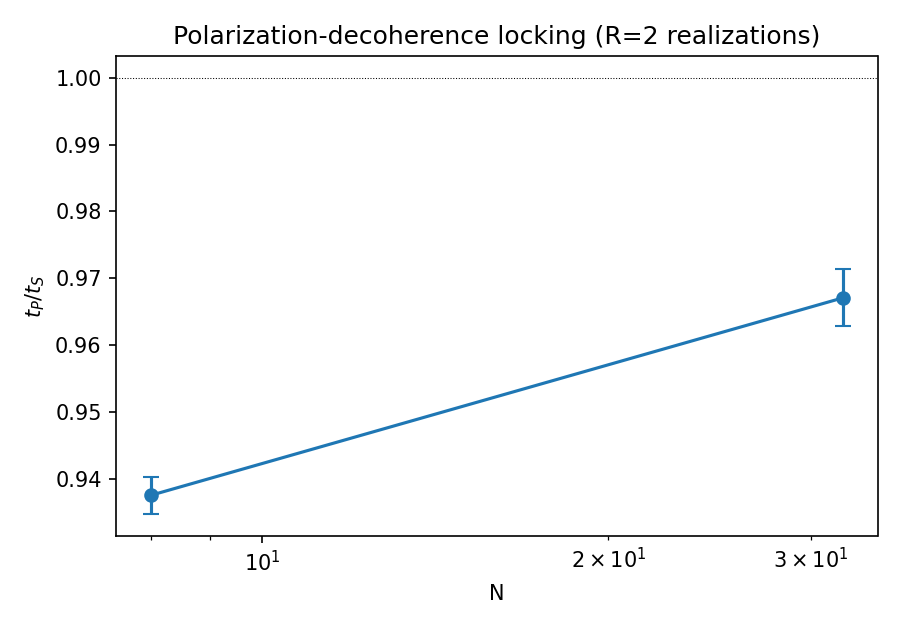
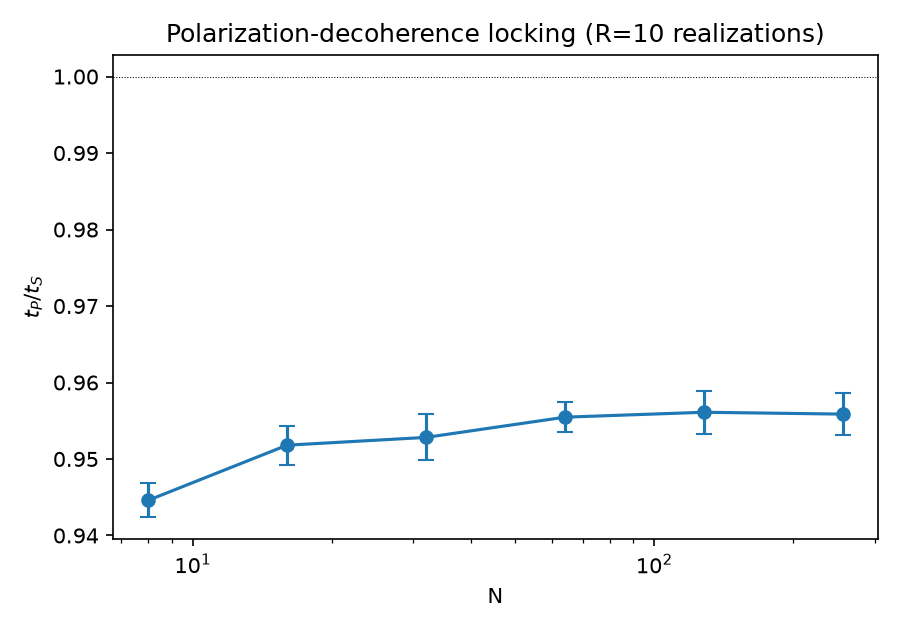
Error-bar production run: densify collapse master curve 50->200
- errorbars.py Section 2: master curve np.linspace(0.05,4.0,50)->200
  (statistical definitions unchanged: R disorder realizations,
  mean+/-std over realizations, equal-occupancy quantile bins).
- Regenerate fig5b_ratio_errorbars.png (pooled t_P/t_S = 0.953+/-0.005).
- Add rerun_sec23.py: faithful Section 2+3 rerun with densified master
  curve, skipping the expensive Section 1. Resolves the hysteresis
  plateau test -> sampling/estimation floor, not a physical deviation.

diff --git a/src/rerun_sec23.py b/src/rerun_sec23.py
@@ -1,0 +1,58 @@
+"""Rerun of errorbars.py Sections 2 (collapse) + 3 (hysteresis floor test)
+with the DENSIFIED master curve (linspace 0.05..4.0, 200 points).
+
+Statistical definitions are copied verbatim from errorbars.py; only the
+master-curve sampling density (50 -> 200) changes. Section 1 (t_P/t_S,
+the expensive part) is intentionally skipped -- it is unaffected.
+"""
+import numpy as np
+from numpy import interp
+import exact, variant_b as vb
+
+R = 10
+GBAR = 0.2
+
+# ---------- 2. collapse residuals with bootstrap (master curve @ 200) ----
+print("\n=== P(D) collapse residuals (master curve = 200 pts) ===")
+Dp, Pp = [], []
+for r in range(R):
+    g = np.random.default_rng(2000+r).uniform(0.05, 0.6, size=64)  # wide g mix
+    for t in np.linspace(0.05, 4.0, 200):
+        d = exact.record_distinguishability(g, t)
+        if d < 60:
+            Dp.append(d)
+            Pp.append(exact.sample_polarization(g, t, n_traj=20_000,
+                      rng=np.random.default_rng(3000+r))[0])
+Dp, Pp = np.array(Dp), np.array(Pp)
+o = np.argsort(Dp)
+nb = max(8, min(40, len(Dp) // 8))          # quantile bins: equal occupancy
+edges = np.quantile(Dp, np.linspace(0, 1, nb + 1))
+idx = np.clip(np.digitize(Dp, edges[1:-1]), 0, nb - 1)
+med_D = np.array([Dp[idx == i].mean() for i in range(nb)])
+med_P = np.array([np.median(Pp[idx == i]) for i in range(nb)])
+srt = np.argsort(med_D); med_D, med_P = med_D[srt], med_P[srt]
+resid = Pp - interp(Dp, med_D, med_P)
+boot = [np.abs(np.random.default_rng(b).choice(resid, size=len(resid))).max()
+        for b in range(200)]
+print(f"n_master_pts = {len(Dp)}, n_bins = {nb}")
+print(f"collapse: RMS residual = {np.sqrt((resid**2).mean()):.4f}, "
+      f"max = {np.abs(resid).max():.4f} "
+      f"(bootstrap 95% CI on max: [{np.percentile(boot, 2.5):.4f}, "
+      f"{np.percentile(boot, 97.5):.4f}])")
+
+# ---------- 3. hysteresis residual: sampling-floor test -----------------
+print("\n=== hysteresis residual vs n_traj (floor test) ===")
+N = 16
+g = np.random.default_rng(42).uniform(0.5*GBAR, 1.5*GBAR, size=N)
+w = 2.0 * g
+ts = np.linspace(0, 30, 121)
+cs = [vb.overlaps(g, w, t) for t in ts]
+for nt in [3_000, 30_000, 300_000]:
+    P_B = np.array([vb.polarization_D(vb.eps_from_c(c), n_traj=nt,
+                    rng=np.random.default_rng(77))[0] for c in cs])
+    ep = [np.clip(vb.eps_from_c(c), 0, 1 - 1e-12) for c in cs]
+    D_B = np.array([float(np.sum(e * np.log((1 + e) / (1 - e)))) for e in ep])
+    ok = (D_B > med_D.min()) & (D_B < med_D.max())
+    res = np.abs(P_B[ok] - interp(D_B[ok], med_D, med_P)).max()
+    print(f"n_traj={nt:7d}: max residual = {res:.4f}")
+print("interpretation: 1/sqrt(n) decay => sampling floor; plateau => physical")

diff --git a/src/errorbars.py b/src/errorbars.py
@@ -65,7 +65,7 @@ print("\n=== P(D) collapse residuals ===")
 Dp, Pp = [], []
 for r in range(R):
     g = np.random.default_rng(2000+r).uniform(0.05, 0.6, size=64)  # wide g mix
-    for t in np.linspace(0.05, 4.0, 50):
+    for t in np.linspace(0.05, 4.0, 200):
         d = exact.record_distinguishability(g, t)
         if d < 60:
             Dp.append(d)